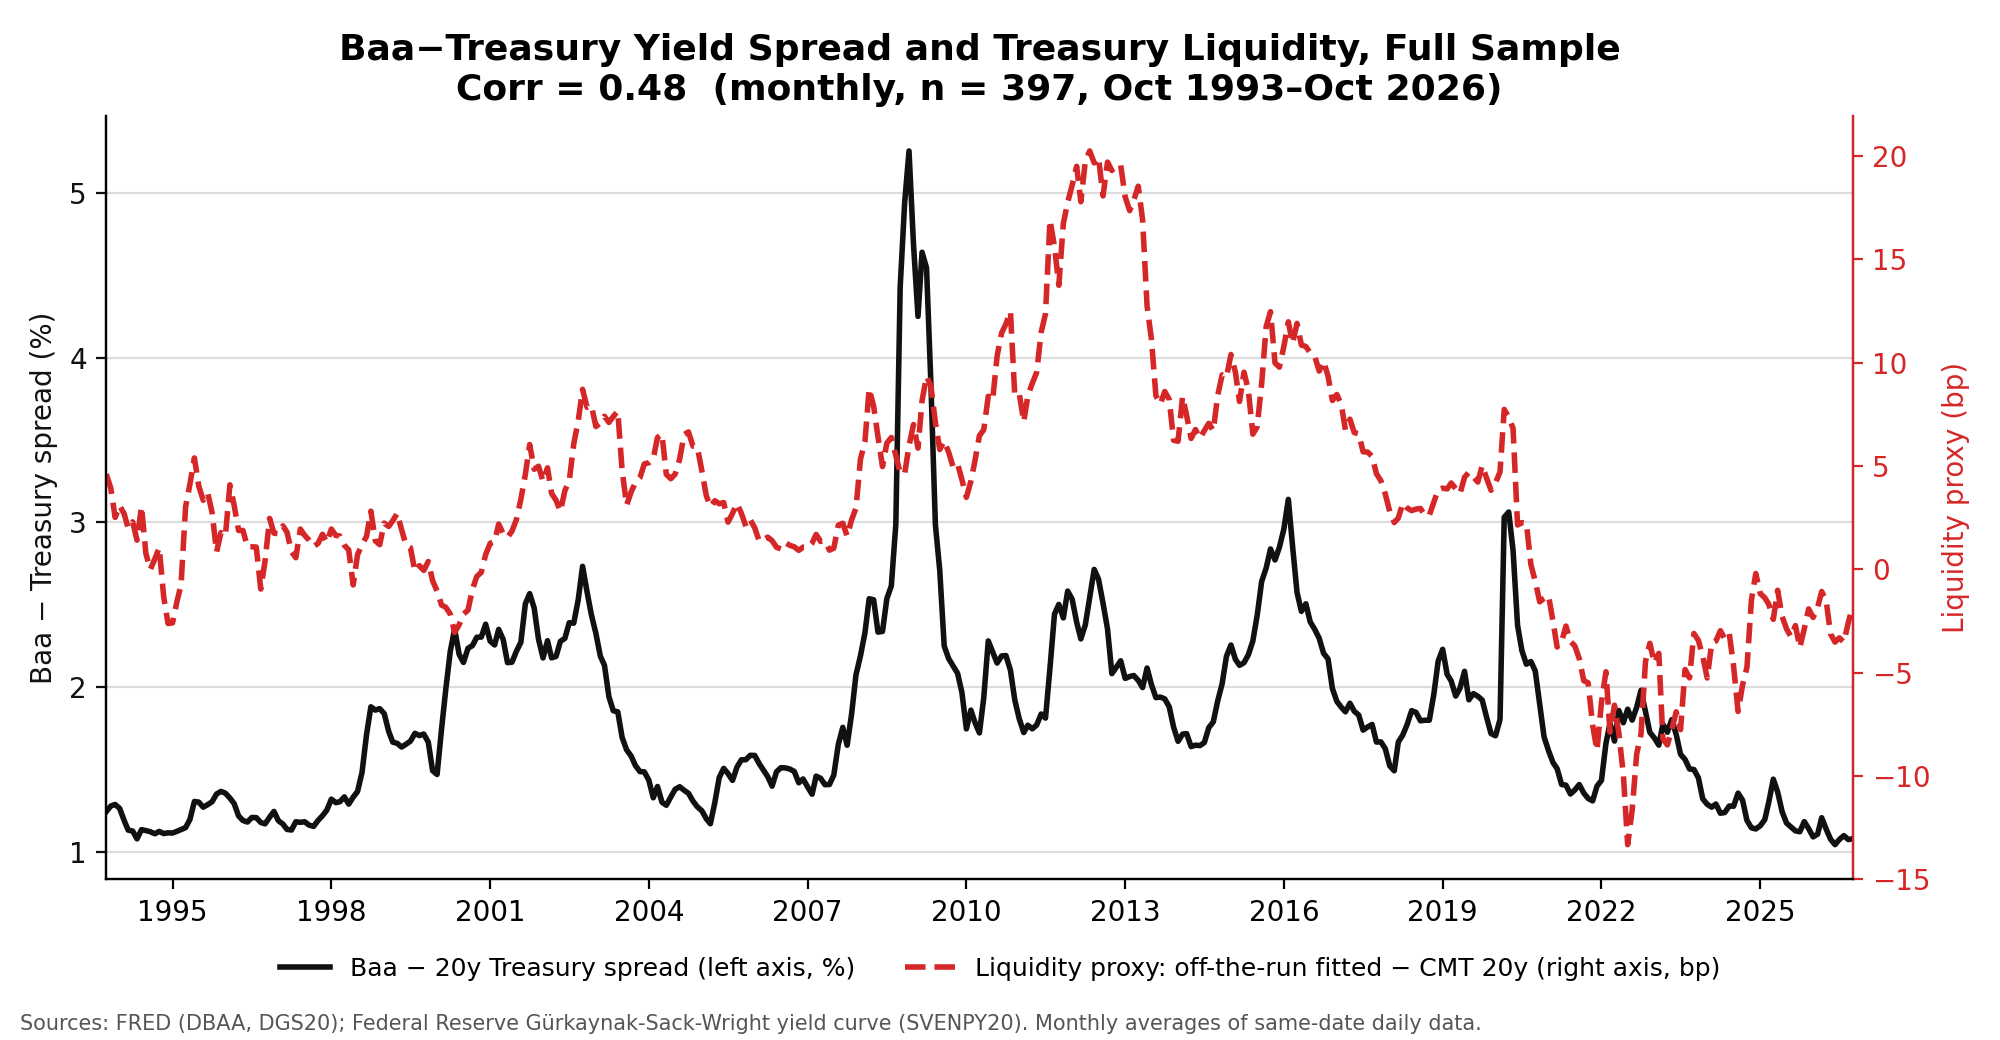
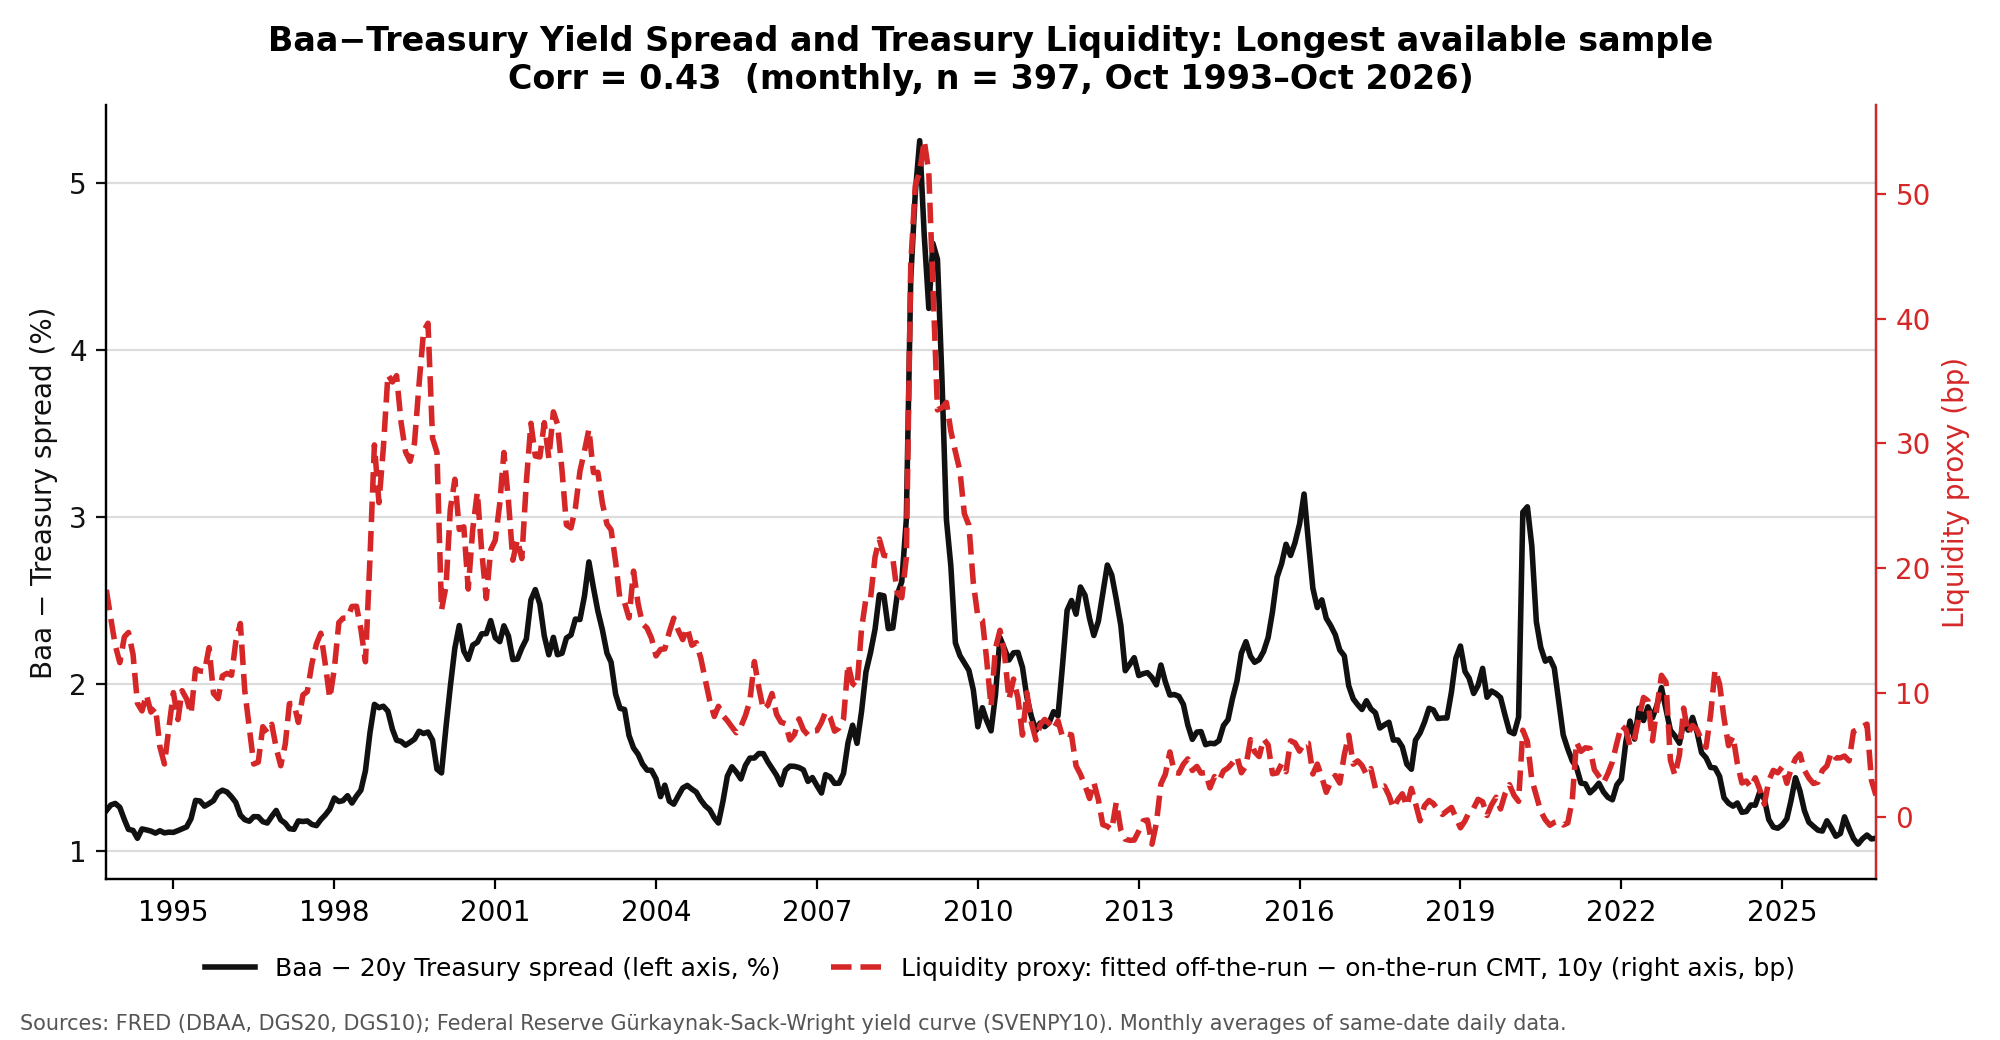
Plot the 10y liquidity proxy in the dual-axis figures
The report uses the 10y proxy (SVENPY10 - DGS10) as its main measure, but
02_figures.py still plotted the 20y one. The figures now use the 10y proxy,
the slide-period panel covers the slide's exact months (Jan 2006 - Oct 2009),
and a combined two-panel figure (fig_replication.png) is saved for the report.
README updated to match.

diff --git a/code/02_figures.py b/code/02_figures.py
@@ -1,14 +1,18 @@
 """Project 4: dual-axis figures of the Baa-Treasury spread vs. the Treasury liquidity proxy.
 
 Run from repository root after 01_clean.py: python code/02_figures.py
-Requires pandas, numpy, matplotlib. Reads data/clean/panel_monthly_complete.csv.
+Requires pandas, matplotlib. Reads data/clean/panel_monthly_complete.csv.
 
 Writes:
-    output/fig_original_2006_2009.png   (Requirement 5: slide 59 period)
+    output/fig_replication.png          (report figure: both panels below, stacked)
+    output/fig_original_2006_2009.png   (Requirement 5: slide period, Jan 2006 - Oct 2009)
     output/fig_extended.png             (Requirement 6: longest available sample)
 
+Liquidity proxy is the 10y one, SVENPY10 - DGS10 (bp): DGS10 is always based on the
+newly issued (on-the-run) 10-year note, so the proxy is consistent over the whole
+sample. The 20y proxy is a robustness check only (see 03_crisis_analysis.py).
 Series are monthly averages of same-date daily observations (see 01_clean.py).
-Left axis: credit spread in percent. Right axis: liquidity proxy in basis points.
+Left axis: credit spread (Baa - 20y Treasury) in percent. Right axis: proxy in bp.
 """
 from pathlib import Path
 import matplotlib
@@ -22,9 +26,14 @@ CLEAN = ROOT / "data" / "clean"
 OUTPUT = ROOT / "output"
 OUTPUT.mkdir(parents=True, exist_ok=True)
 
-START_ORIGINAL, END_ORIGINAL = "2006-01", "2009-12"
-SPREAD, LIQ = "credit_spread_pct", "liquidity_proxy_bp"
+# The slide's chart data run Jan 2006 - Oct 2009 (read from Ch 9 Bonds.pptx in 03).
+START_ORIGINAL, END_ORIGINAL = "2006-01", "2009-10"
+SPREAD, LIQ = "credit_spread_pct", "liquidity_proxy10_bp"
 SPREAD_COLOR, LIQ_COLOR = "#111111", "#D62728"
+SPREAD_LABEL = "Baa − 20y Treasury spread (left axis, %)"
+LIQ_LABEL = "Liquidity proxy: fitted off-the-run − on-the-run CMT, 10y (right axis, bp)"
+SOURCE = ("Sources: FRED (DBAA, DGS20, DGS10); Federal Reserve Gürkaynak-Sack-Wright "
+          "yield curve (SVENPY10). Monthly averages of same-date daily data.")
 
 m = pd.read_csv(CLEAN / "panel_monthly_complete.csv")
 m["date"] = pd.PeriodIndex(m["month"], freq="M").to_timestamp()
@@ -34,17 +43,15 @@ m = m.set_index("date").sort_index()
 m = m.reindex(pd.date_range(m.index.min(), m.index.max(), freq="MS"))
 
 
-def dual_axis_plot(df, title, path, date_fmt, locator):
+def draw(ax1, df, title, date_fmt, locator):
+    """Dual-axis panel on ax1; returns (corr, n, first, last, line handles)."""
     pair = df[[SPREAD, LIQ]].dropna()
     corr = pair[SPREAD].corr(pair[LIQ])
     first, last = pair.index.min(), pair.index.max()
 
-    fig, ax1 = plt.subplots(figsize=(10, 5.2))
     ax2 = ax1.twinx()
-    l1, = ax1.plot(df.index, df[SPREAD], color=SPREAD_COLOR, lw=2,
-                   label="Baa − 20y Treasury spread (left axis, %)")
-    l2, = ax2.plot(df.index, df[LIQ], color=LIQ_COLOR, lw=2, ls="--",
-                   label="Liquidity proxy: off-the-run fitted − CMT 20y (right axis, bp)")
+    l1, = ax1.plot(df.index, df[SPREAD], color=SPREAD_COLOR, lw=2, label=SPREAD_LABEL)
+    l2, = ax2.plot(df.index, df[LIQ], color=LIQ_COLOR, lw=2, ls="--", label=LIQ_LABEL)
 
     ax1.set_ylabel("Baa − Treasury spread (%)", color=SPREAD_COLOR)
     ax2.set_ylabel("Liquidity proxy (bp)", color=LIQ_COLOR)
@@ -58,28 +65,39 @@ def dual_axis_plot(df, title, path, date_fmt, locator):
     ax1.xaxis.set_major_locator(locator)
     ax1.xaxis.set_major_formatter(mdates.DateFormatter(date_fmt))
     ax1.set_xlim(df.index.min(), df.index.max())
-
     ax1.set_title(f"{title}\nCorr = {corr:.2f}  (monthly, n = {len(pair)}, "
-                  f"{first:%b %Y}–{last:%b %Y})", fontsize=13, fontweight="bold")
+                  f"{first:%b %Y}–{last:%b %Y})", fontsize=12, fontweight="bold")
+    return corr, len(pair), first, last, [l1, l2]
+
+
+def finish(fig, handles, path, legend_y, rect_bottom):
     # Legend below the plot area so it never covers either line.
-    fig.legend(handles=[l1, l2], loc="lower center", ncol=2, frameon=False,
-               fontsize=9, bbox_to_anchor=(0.5, 0.035))
-    fig.text(0.01, 0.01, "Sources: FRED (DBAA, DGS20); Federal Reserve Gürkaynak-Sack-Wright "
-             "yield curve (SVENPY20). Monthly averages of same-date daily data.",
-             fontsize=7.5, color="#555555")
-    fig.tight_layout(rect=(0, 0.08, 1, 1))
+    fig.legend(handles=handles, loc="lower center", ncol=2, frameon=False,
+               fontsize=9, bbox_to_anchor=(0.5, legend_y))
+    fig.text(0.01, 0.01, SOURCE, fontsize=7.5, color="#555555")
+    fig.tight_layout(rect=(0, rect_bottom, 1, 1))
     fig.savefig(path, dpi=200)
     plt.close(fig)
-    print(f"{path.relative_to(ROOT)}: corr = {corr:.4f}, n = {len(pair)}, "
-          f"{first:%Y-%m} to {last:%Y-%m}")
-    return corr
 
 
-original = m.loc[START_ORIGINAL:END_ORIGINAL]
-dual_axis_plot(original, "Baa−Treasury Yield Spread and Treasury Liquidity, 2006–2009",
-               OUTPUT / "fig_original_2006_2009.png",
-               "%m-%y", mdates.MonthLocator(bymonth=[1, 4, 7, 10]))
+PANELS = [
+    (m.loc[START_ORIGINAL:END_ORIGINAL], "Slide period", "%m-%y",
+     lambda: mdates.MonthLocator(bymonth=[1, 4, 7, 10]), OUTPUT / "fig_original_2006_2009.png"),
+    (m, "Longest available sample", "%Y",
+     lambda: mdates.YearLocator(base=3), OUTPUT / "fig_extended.png"),
+]
 
-dual_axis_plot(m, "Baa−Treasury Yield Spread and Treasury Liquidity, Full Sample",
-               OUTPUT / "fig_extended.png",
-               "%Y", mdates.YearLocator(base=3))
+# One figure per sample (Requirements 5 and 6).
+for df, label, fmt, locator, path in PANELS:
+    fig, ax = plt.subplots(figsize=(10, 5.2))
+    corr, n, first, last, handles = draw(
+        ax, df, f"Baa−Treasury Yield Spread and Treasury Liquidity: {label}", fmt, locator())
+    finish(fig, handles, path, legend_y=0.035, rect_bottom=0.08)
+    print(f"{path.relative_to(ROOT)}: corr = {corr:.4f}, n = {n}, {first:%Y-%m} to {last:%Y-%m}")
+
+# Both samples stacked in one figure, for the report.
+fig, axes = plt.subplots(2, 1, figsize=(10, 9))
+for ax, (df, label, fmt, locator, _) in zip(axes, PANELS):
+    *_, handles = draw(ax, df, label, fmt, locator())
+finish(fig, handles, OUTPUT / "fig_replication.png", legend_y=0.02, rect_bottom=0.05)
+print("output/fig_replication.png: both panels above")

diff --git a/README.md b/README.md
@@ -44,7 +44,7 @@ The FRED files were downloaded on 2026-11-08/09 and run through 2026-11-05.
 | Script | Does | Writes |
 |---|---|---|
 | `01_clean.py` | Loads, cleans and aligns all series. Builds the spread and liquidity proxies. Averages daily data to monthly. | `data/clean/*.csv`; `output/cleaning_log.csv`, `extreme_values.csv`, `data_dictionary.csv` |
-| `02_figures.py` | Dual-axis figures: spread vs liquidity proxy, for 2006–2009 and the full sample | `output/fig_original_2006_2009.png`, `output/fig_extended.png` |
+| `02_figures.py` | Dual-axis figures: spread vs the 10y liquidity proxy, for the slide period (Jan 2006–Oct 2009) and the full sample | `output/fig_replication.png` (both panels, used in the report), `output/fig_original_2006_2009.png`, `output/fig_extended.png` |
 | `03_crisis_analysis.py` | Everything below, for both liquidity proxies | `output/tab_*.csv`, `output/fig_crisis_comparison.png` |
 
 What `03_crisis_analysis.py` covers:
@@ -62,7 +62,7 @@ What `03_crisis_analysis.py` covers:
 | Requirement | File |
 |---|---|
 | 4. Cleaning (counts per step) | `cleaning_log.csv`, `extreme_values.csv` |
-| 5–6. Figure and correlation, original and extended sample | `fig_original_2006_2009.png`, `fig_extended.png` |
+| 5–6. Figure and correlation, original and extended sample | `fig_replication.png` (report figure), `fig_original_2006_2009.png`, `fig_extended.png` |
 | 7. Comparison to the slide | `tab_slide_comparison.csv` |
 | 8. Liquidity vs default risk | `tab_regressions.csv`, `tab_vix_correlation.csv` |
 | 9. Credit spread puzzle | `tab_puzzle.csv` |
@@ -75,8 +75,8 @@ Column definitions are in `output/data_dictionary.csv`.
 
 - **Credit spread** = DBAA − DGS20, in percentage points. The 20-year Treasury is the closest match to the long maturity of Moody's Baa index.
 - **Liquidity proxies** (fitted off-the-run yield minus the benchmark yield, in basis points):
-  - **10y:** `SVENPY10 − DGS10`. DGS10 is always based on the newly issued (on-the-run) 10-year note, so this proxy is consistent over the whole sample.
-  - **20y:** `SVENPY20 − DGS20`. The Treasury did not issue 20-year bonds from 1986 until it reissued them on 2020-05-20. Before that date DGS20 is itself interpolated; after it, DGS20 tracks the new, thinly traded 20-year bond. This proxy therefore has a structural break, and COVID-window statistics end at 2020-05-19.
+  - **10y (main proxy, used in the figures):** `SVENPY10 − DGS10`. DGS10 is always based on the newly issued (on-the-run) 10-year note, so this proxy is consistent over the whole sample.
+  - **20y (robustness check):** `SVENPY20 − DGS20`. The Treasury did not issue 20-year bonds from 1986 until it reissued them on 2020-05-20. Before that date DGS20 is itself interpolated; after it, DGS20 tracks the new, thinly traded 20-year bond. This proxy therefore has a structural break, and COVID-window statistics end at 2020-05-19.
 - **Frequency:** monthly averages of daily data. Only days on which all of DBAA, DGS20, VIX and SVENPY20 are available are used, so the series are always measured on the same dates. The sensitivity table also reports daily data and end-of-month values.
 - **Cleaning:**
   - FRED blanks (holidays) are left missing and never interpolated.
